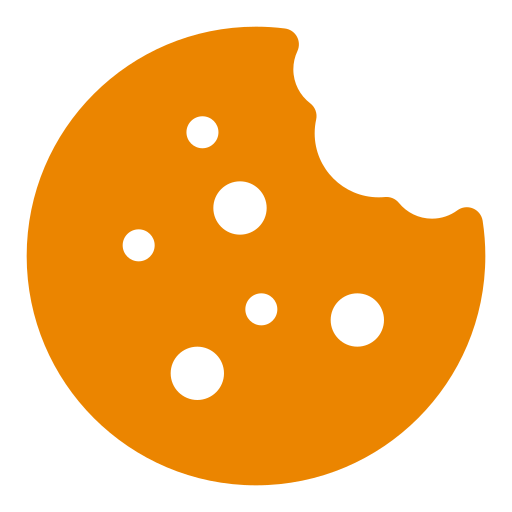
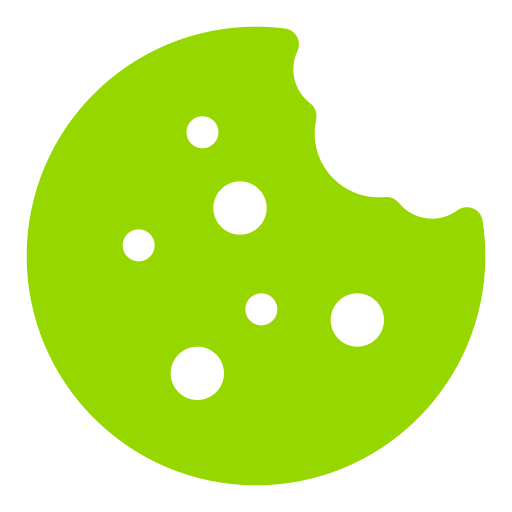
Cookie Aesthetics Improvements
Updated the cookie menu appearance. Now the menu is consistent with the design of the rest of the menus for colour palettes and engines (though extensions needs updates + fixing still).

Also fixed the cookie list to actively remove the cookies AS the user clicks the deny button. Clicking the accept button will remove it from the top and re-add it to the bottom so that users can deny it again if needed, or otherwise can leave it be.

Improvements to be made: scrollbar to improve readability, adjusted sensitivity modes to allow 0 to accept all cookies, 1 blocks ad cookies, 2 blocks all but essential, 3 blocks all.

diff --git a/Main_Repo/src/main.py b/Main_Repo/src/main.py
@@ -82,7 +82,7 @@ else:
 
 if "Cookie-Prediction-Sensitivity" in toggles.keys():
     global sensitivity
-    sensitivity = toggles["Cookie-Prediction-Sensitivity"]
+    sensitivity = toggles["Cookie-Prediction-Sensitivity"] #0 for limited blocking, 1 for middle ground, 2 for extensive
 
 # ---- MAIN FUNCTIONS ----
 
@@ -730,6 +730,7 @@ class Browser(QMainWindow):
         #need to set colourmenu attibutes individually for each QMenu dropdown segment
         self.ColourMenu.setAttribute(Qt.WA_TranslucentBackground)
         self.browsermenu.setAttribute(Qt.WA_TranslucentBackground)
+        self.cookieMenu.setAttribute(Qt.WA_TranslucentBackground)
 
         app.setStyleSheet(f"""
             /* Style the dropdown menu items */
@@ -745,6 +746,7 @@ class Browser(QMainWindow):
             """)
         
         colour_rgb_str = f"rgb({self.light_rgb_tuple[0]}, {self.light_rgb_tuple[1]}, {self.light_rgb_tuple[2]})"
+
         
         for action in self.ColourMenu.actions():
             widget = action.defaultWidget()
@@ -788,12 +790,6 @@ class Browser(QMainWindow):
                     
                     if text_label:
                         text_label.setStyleSheet(f"color: {self.hexval}")
-
-
-        #run through key value pair and map to button name then swap rgb or hsv values
-        print(f"button stuff: {eColsButton}")
-        print(f"style stuff: {eColsStyle}")
-        
 
 
 
@@ -1025,56 +1021,69 @@ class Browser(QMainWindow):
         #actual logic - refresh cookie dictionary each time a new one is added
         cookiedict = self.cookieManager.on_cookie_added(cookie)
         self.cookiedict = cookiedict
-    
+
     def cookieGUI(self):
+        # 1. Clear existing content safely
         self.cookieMenu.clear()
 
-        #Check if cookiedict exists to avoid crashes
         if not hasattr(self, 'cookiedict') or not self.cookiedict:
             self.cookieMenu.addAction("No cookies detected yet.")
-            print("no cookies detected or error in loading")
             return
-        
-        for action in self.cookieMenu.actions():
-            self.cookieMenu.removeAction(action)
-            action.deleteLater()
+
+        # 2. Reusable styling (Move outside the loop for efficiency)
+        colour_rgb_str = f"rgb({self.light_rgb_tuple[0]}, {self.light_rgb_tuple[1]}, {self.light_rgb_tuple[2]})"
+        self.cookieMenu.setStyleSheet(f"QMenu {{ background-color: {self.hexval}; border-radius: 10px; padding: 5px; }}")
 
         for cookieID, value in self.cookiedict.items():
-            #Container widget for the row
             cookie_row = QWidget()
-            layout = QHBoxLayout(cookie_row)
-            layout.setContentsMargins(10, 2, 10, 2)
-            layout.setSpacing(10)
-
-            #Labels
-            name_label = QLabel(value["name"])
-            name_label.setMinimumWidth(100)
-            predict_label = QLabel(f"({value['prediction']})")
-            predict_label.setStyleSheet("color: gray; font-size: 10px;")
+            cookie_row.setObjectName("CookieRow")
+            cookie_row.setAttribute(Qt.WidgetAttribute.WA_StyledBackground, True)
             
+            layout = QHBoxLayout(cookie_row)
+            layout.setContentsMargins(10, 5, 10, 5)
+            
+            # UI Elements
+            name = value["name"][:15] + "..." if len(value["name"]) > 15 else value["name"]
+            name_label = QLabel(name)
+            predict_label = QLabel(f"({value['prediction']})")
+            predict_label.setStyleSheet(f"color: {self.hexval}; font-size: 10px;")
+            
+            # Buttons with "Stay Open" Logic
+            btn_accept = QPushButton("✓")
+            btn_deny = QPushButton("✕")
+            
+            for btn in [btn_accept, btn_deny]:
+                btn.setFixedSize(24, 24)
+                # Prevent the menu from closing when these specific buttons are clicked
+                btn.setAttribute(Qt.WidgetAttribute.WA_NoMousePropagation, False)
+
+            # Connect signals: Execute logic -> Refresh the whole menu list
+            btn_accept.clicked.connect(lambda _, id=cookieID: self.handle_cookie_action(id, "accept"))
+            btn_deny.clicked.connect(lambda _, id=cookieID: self.handle_cookie_action(id, "deny"))
+
             layout.addWidget(name_label)
             layout.addWidget(predict_label)
-            layout.addStretch() # Pushes buttons to the right
-
-            #Action Buttons (Standard QPushButtons work better inside the row)
-            btn_accept = QPushButton("✓")
-            btn_accept.setFixedSize(24, 24)
-            btn_accept.clicked.connect(lambda chk=False, id=cookieID: self.cookieManager.acceptCookie(id))
-
-            btn_deny = QPushButton("✕")
-            btn_deny.setFixedSize(24, 24)
-            btn_deny.clicked.connect(lambda chk=False, id=cookieID: self.cookieManager.cookieEVAPORATOR(id))
-
+            layout.addStretch()
             layout.addWidget(btn_accept)
             layout.addWidget(btn_deny)
 
-            #QWidgetAction to host the row in the menu
+            cookie_row.setStyleSheet(f"#CookieRow {{ background-color: {colour_rgb_str}; border-radius: 6px; }}")
+
+            # Add to Menu
             container_action = QWidgetAction(self.cookieMenu)
             container_action.setDefaultWidget(cookie_row)
-            
             self.cookieMenu.addAction(container_action)
-            self.cookieMenu.update()
-            self.cookieMenu.repaint()
+
+    def handle_cookie_action(self, cookieID, action_type):
+        """Helper to process data and force a refresh while menu is open."""
+        if action_type == "accept":
+            self.cookieManager.acceptCookie(cookieID)
+        else:
+            self.cookieManager.cookieEVAPORATOR(cookieID)
+        
+        # Crucial: Re-run the GUI builder to update the list immediately
+        self.cookieGUI() 
+
 
 
 

diff --git a/Main_Repo/src/cookieManager.py b/Main_Repo/src/cookieManager.py
@@ -75,6 +75,8 @@ class CookieManager:
                 for key, value in self.pending_cookies.items():
                     if value["prediction"] == "Functional/Preference" or value["prediction"] == "Advertising" or value["prediction"] == "Analytics (Tracking)":
                         self.cookieEVAPORATOR(key)
+                    else:
+                        pass
             except RuntimeError:
                 return
         else:
